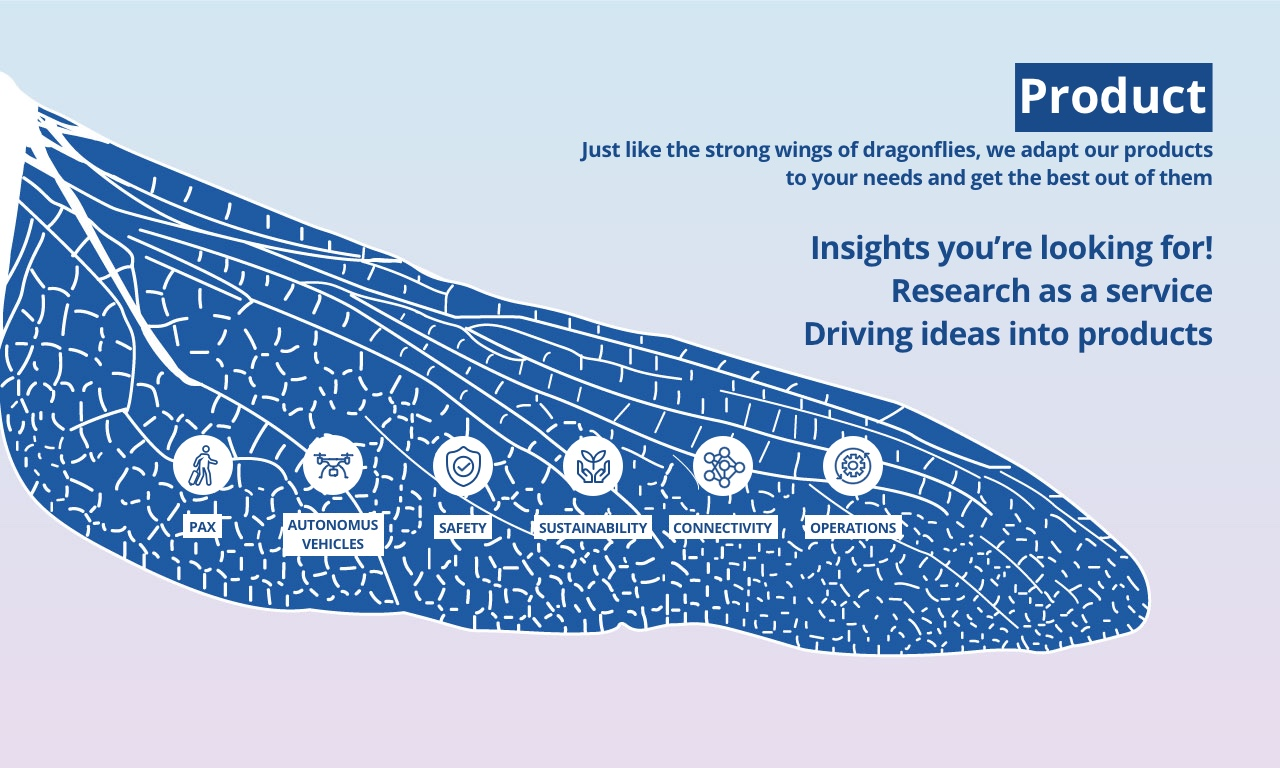
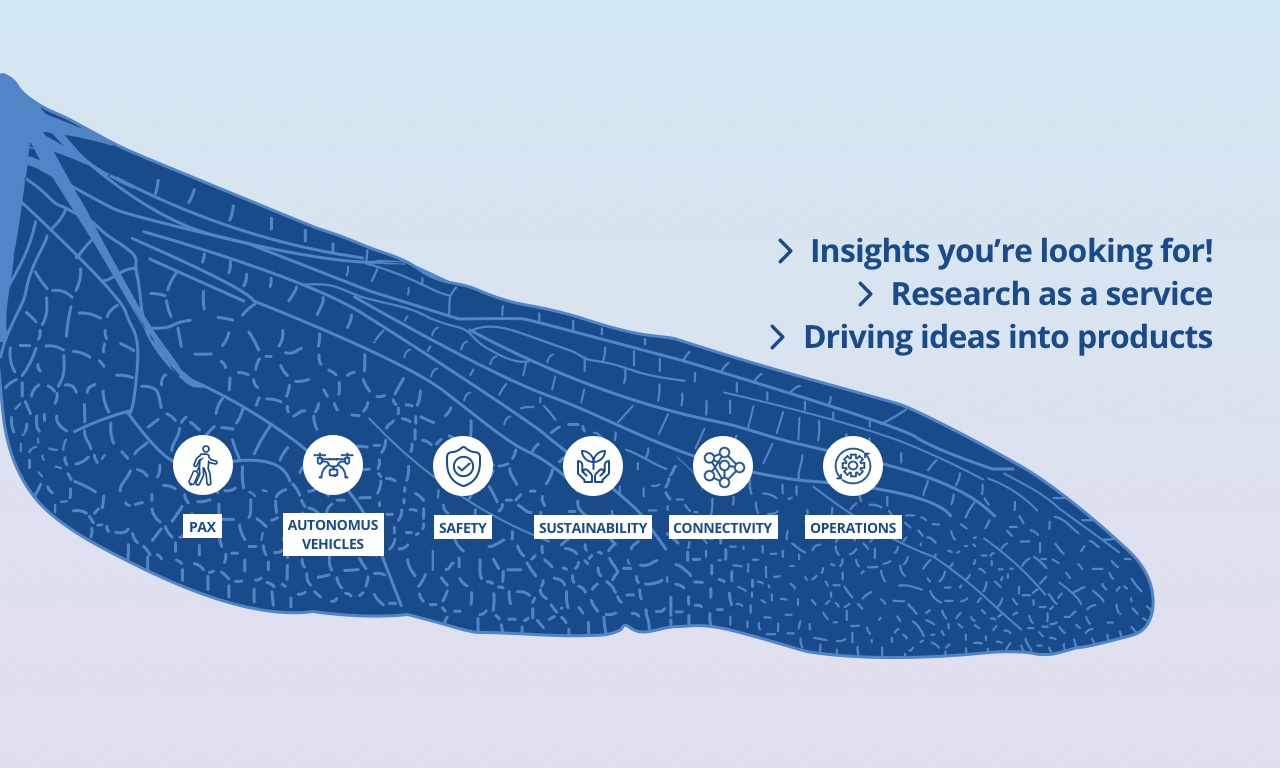
feat: update images clouds

Changed region(s): [[0.0, 0.0938, 0.9688, 0.875], [0.4375, 0.0625, 0.9688, 0.25]]

diff --git a/everis-flying-together/src/js/function.js b/everis-flying-together/src/js/function.js
@@ -100,7 +100,7 @@ $(function () {
                   <img src=${imageOriginal} alt="Original Image"> 
                   <div class="resize-image"> 
                   </div>              
-                  <span class="handle"></span>
+                  <span class="handle blob white"></span>
                 </figure> 
               </div>
             <div class="slide__darkbg slide--${numSlide}__darkbg slide--${numSlide}__animated-gradient"></div>
@@ -134,25 +134,21 @@ $(function () {
                   <iframe poster="https://www.emailonacid.com/images/blog_images/Emailology/2013/html5_video/bunny_cover.jpg" src="https://player.vimeo.com/video/518638996" class="with-shadow" width="640" height="360" frameborder="0" allow="autoplay; fullscreen; picture-in-picture" allowfullscreen></iframe>
                 </div>  
                 <div class="bullets-container">
-                  <div class="bullet bullet-1"> 
-                    <div class="bullet-text">
-                      <p>Walk together looking into the future</p>
-                    </div> 
+                  <div class="bullet">
+                    <p class="bullet-title">INIT</p>
+                    <p class="bullet-subtitle">Taking off towards products, teams, and chapters.</p>                     
                   </div>
-                  <div class="bullet bullet-1"> 
-                    <div class="bullet-text">
-                      <p>Walk together looking into the future</p>
-                    </div> 
+                  <div class="bullet"> 
+                    <p class="bullet-title">INIT</p>
+                    <p class="bullet-subtitle">Taking off towards products, teams, and chapters.</p>                    
                   </div>
-                  <div class="bullet bullet-1"> 
-                    <div class="bullet-text">
-                      <p>Walk together looking into the future</p>
-                    </div> 
+                  <div class="bullet"> 
+                    <p class="bullet-title">INIT</p>
+                    <p class="bullet-subtitle">Taking off towards products, teams, and chapters.</p>
                   </div>
-                  <div class="bullet bullet-1"> 
-                    <div class="bullet-text">
-                      <p>Walk together looking into the future</p>
-                    </div> 
+                  <div class="bullet"> 
+                    <p class="bullet-title">INIT</p>
+                    <p class="bullet-subtitle">Taking off towards products, teams, and chapters.</p>
                   </div>
                 </div>
               </div> 
@@ -170,15 +166,18 @@ $(function () {
             <div class="slide__darkbg slide--${numSlide}__darkbg"></div>
               <div class="draggable-container">
                 <div class="draggable-clouds">
-                  <ul>
-                    <li>
-                      <div class="ui-widget-content draggable-cloud cloud-1" />
-                    </li>
-                    <li>
-                      <div class="ui-widget-content draggable-cloud cloud-2" />
-                    </li>
-                  </ul>                      
-                </div>                    
+                  <div class="ui-widget-content draggable-cloud cloud-1"></div>
+                  <div class="ui-widget-content draggable-cloud cloud-2"></div>
+                  <div class="ui-widget-content draggable-cloud cloud-3"></div>
+                </div> 
+                <div class="draggable-hidden-container contain-1">
+                  <p class="draggable-hidden-container-title"><span class="icn-arrow"></span>Walk together looking into the future</p>
+                  <p class="draggable-hidden-container-subtitle">Continuous discovery methodology fully aligned with your business needs and market trends</p>
+                </div>
+                <div class="draggable-hidden-container contain-2">
+                  <p class="draggable-hidden-container-title"><span class="icn-arrow"></span>From tech radar to the chapter</p>
+                  <p class="draggable-hidden-container-subtitle">Accelerate the adoption of new technologies by your delivery teams</p>
+                </div>
               </div>        
             </div>
           </div>`);
@@ -382,7 +381,7 @@ $(function () {
   // draggable/fadeOut clouds
   $(".draggable-cloud").draggable({
     start: function() {
-      $(this).fadeTo("slow", 0.1);
+      // $(this).fadeTo("slow", 0.1);
     }
   });
 

diff --git a/everis-flying-together/src/css/slide-4.css b/everis-flying-together/src/css/slide-4.css
@@ -1,0 +1,114 @@
+.slide--4 .draggable-hidden-container {
+  position: absolute;
+  display: flex;
+  flex-direction: column;
+  width: 300px;
+  height: 170px;
+  color: #194a8a;
+  padding: 24px;
+  background: white;
+}
+
+.slide--4 .draggable-hidden-container .draggable-hidden-container-title {
+  display: flex;
+  align-items: center;
+  font-size: 18px;
+  font-weight: bold;
+  letter-spacing: -0.43px;
+  color: #194a8a;
+}
+
+.slide--4
+  .draggable-hidden-container
+  .draggable-hidden-container-title
+  .icn-arrow {
+  background: url("../images/blue-arrow.svg") no-repeat;
+  width: 20px;
+  height: 26px;
+  margin-right: 20px;
+}
+
+.slide--4 .draggable-hidden-container .draggable-hidden-container-subtitle {
+  margin-top: 20px;
+  font-size: 14px;
+  font-weight: bold;
+  line-height: normal;
+  letter-spacing: -0.34px;
+  color: #194a8a;
+}
+
+.slide--4 .draggable-hidden-container.contain-1 {
+  left: 200px;
+  top: 600px;
+}
+.slide--4 .draggable-hidden-container.contain-2 {
+  right: 300px;
+  top: 300px;
+}
+
+/* clouds */
+.slide--4 .draggable-container {
+  position: absolute;
+  left: 0;
+  top: 0;
+  z-index: 100;
+  width: 100%;
+  height: 100vh;
+}
+.slide--4 .draggable-container .draggable-clouds .cloud-1 {
+  background: url("../images/draggable-clouds/nube1.png") center center
+    no-repeat;
+  position: absolute;
+  left: 200px;
+  top: 600px;
+  z-index: 100;
+  width: 600px;
+  height: 300px;
+  background-size: contain;
+}
+.slide--4 .draggable-container .draggable-clouds .cloud-2 {
+  background: url("../images/draggable-clouds/cloud-1.png") center center
+    no-repeat;
+  position: absolute;
+  right: 300px;
+  top: 300px;
+  width: 400px;
+  height: 300px;
+  z-index: 100;
+  background-size: 100%;
+}
+.slide--4 .draggable-container .draggable-clouds .cloud-3 {
+  background: url("../images/draggable-clouds/cloud-1.png") center center
+    no-repeat;
+  position: absolute;
+  left: 890px;
+  top: 180px;
+  width: 400px;
+  height: 300px;
+  z-index: 100;
+  background-size: 100%;
+}
+.slide--4 .draggable-container .draggable-cloud {
+  width: 30%;
+  height: 100px;
+  transform: scale(1);
+  /* animation: pulse 30s infinite; */
+  /* filter: brightness(100%); */
+}
+.slide--4 .draggable-container .draggable-cloud:hover {
+  /* filter: brightness(110%); */
+  cursor: grab;
+}
+
+/* animations */
+@keyframes pulse {
+  0% {
+    transform: scale(0.95);
+  }
+  70% {
+    transform: scale(1.2);
+  }
+  100% {
+    transform: scale(0.95);
+  }
+}

diff --git a/everis-flying-together/src/css/main.css b/everis-flying-together/src/css/main.css
@@ -141,7 +141,7 @@ body {
   -webkit-box-align: flex-end;
   -ms-flex-align: flex-end;
   align-items: flex-end;
-  z-index: 12;
+  z-index: 1000;
   text-align: left;
 }
 .slide__text-wrapper h1 {
@@ -468,58 +468,4 @@ body {
   font-size: 64px;
   color: #5976aa;
 }
-/* */
-
-/* SLIDE 2 */
-/* */
-
-/* SLIDE 3 */
-.slide--3 .slide__wrapper-video {
-  position: absolute;
-  top: 50%;
-  left: 50%;
-  transform: translate(-50%, -50%);
-  z-index: 12;
-  display: flex;
-  justify-content: space-between;
-}
-
-.slide--3 .slide__wrapper-video .video-container iframe.with-shadow {
-  box-shadow: 0 30px 30px rgb(0 0 0 / 15%);
-}
-
-.slide--3 .slide__wrapper-video .bullets-container {
-  margin-left: 100px;
-}
-
-.slide--3 .slide__wrapper-video .bullets-container .bullet {
-  display: flex;
-  align-items: center;
-}
-.slide--3 .slide__wrapper-video .bullets-container .bullet .lnr {
-  display: flex;
-  justify-content: center;
-  align-items: center;
-  min-width: 100px;
-  height: 100px;
-  border-radius: 50%;
-  background: white;
-  font-size: 42px;
-  border: 4px solid #5976aa;
-}
-.slide--3 .slide__wrapper-video .bullets-container .bullet .bullet-text {
-  display: flex;
-  justify-content: center;
-  align-items: center;
-  padding: 20px;
-  background-color: #5976aa;
-  border-radius: 5px;
-  color: white;
-  width: 300px;
-  height: 60px;
-  margin-left: -50px;
-  padding-left: 60px;
-  z-index: -1;
-}
-
 /* */

diff --git a/everis-flying-together/src/css/draggable-comparator.css b/everis-flying-together/src/css/draggable-comparator.css
@@ -67,7 +67,7 @@
   width: 0;
   height: 100%;
   overflow: hidden;
-  background: url("../images/draggable-comparator/wing-web.png") no-repeat left
+  background: url("../images/draggable-comparator/wing-web2.jpg") no-repeat left
     top;
   background-size: auto 100%;
   -webkit-transform: translateZ(0);
@@ -131,7 +131,7 @@
   margin-left: -22px;
   margin-top: -22px;
   border-radius: 50%;
-  background: #dc717d
+  background: #cef3ff
     url("https://webdevtrick.com/wp-content/uploads/arrows.svg") no-repeat
     center center;
   cursor: move;
@@ -143,6 +143,7 @@
   -ms-transform: translate3d(0, 0, 0) scale(0);
   -o-transform: translate3d(0, 0, 0) scale(0);
   transform: translate3d(0, 0, 0) scale(0);
+  animation: pulse 2s infinite;
 }
 .handle:hover,
 .handle.draggable {
@@ -158,4 +159,26 @@
   -webkit-transition: -webkit-transform 0.3s 0.7s, opacity 0s 0.7s;
   -moz-transition: -moz-transform 0.3s 0.7s, opacity 0s 0.7s;
   transition: transform 0.3s 0.7s, opacity 0s 0.7s;
+}
+
+.blob {
+  box-shadow: 0 0 0 0 rgba(0, 0, 0, 1);
+  transform: scale(1);
+}
+
+@keyframes pulse {
+  0% {
+    transform: scale(0.95);
+    box-shadow: 0 0 0 0 rgba(255, 255, 255, 0.7);
+  }
+
+  70% {
+    transform: scale(1.2);
+    box-shadow: 0 0 0 10px rgba(255, 255, 255, 0);
+  }
+
+  100% {
+    transform: scale(0.95);
+    box-shadow: 0 0 0 0 rgba(255, 255, 255, 0);
+  }
 }

diff --git a/everis-flying-together/src/css/slide-3.css b/everis-flying-together/src/css/slide-3.css
@@ -1,13 +1,40 @@
-/* title section */
-.slide--3 .slide__text-wrapper h1 {
-  background-color: rgba(25, 74, 138, 0.75);
-  color: white;
-}
-.slide--3 .slide__text-wrapper h3 {
-  color: #194a8a;
+.slide--3 .slide__wrapper-video {
+  position: absolute;
+  top: 50%;
+  left: 50%;
+  transform: translate(-50%, -50%);
+  z-index: 12;
+  display: flex;
+  justify-content: space-between;
 }
 
-.slide--3 .card-area {
+.slide--3 .slide__wrapper-video .video-container iframe.with-shadow {
+  box-shadow: 0 30px 30px rgb(0 0 0 / 15%);
+}
+
+.slide--3 .slide__wrapper-video .bullets-container {
+  margin-left: 100px;
   display: flex;
-  margin: auto;
+  flex-direction: column;
+}
+
+.slide--3 .slide__wrapper-video .bullets-container .bullet {
+  display: flex;
+  flex-direction: column;
+  margin-bottom: 30px;
+  color: #194a8a;
+}
+.slide--3 .slide__wrapper-video .bullets-container .bullet:last-child {
+  margin-bottom: 0;
+}
+.slide--3 .slide__wrapper-video .bullets-container .bullet .bullet-title {
+  font-size: 14px;
+  font-weight: bold;
+  background: white;
+  padding: 4px;
+  margin-bottom: 4px;
+}
+.slide--3 .slide__wrapper-video .bullets-container .bullet .bullet-subtitle {
+  font-size: 14px;
+  font-weight: bold;
 }

diff --git a/everis-flying-together/src/App.js b/everis-flying-together/src/App.js
@@ -3,10 +3,11 @@ import logo from './images/navblue-white-logo.png';
 import 'jquery-ui-dist/jquery-ui';
 import './css/main.css';
 import './css/slide-1.css';
+import './css/slide-3.css';
+import './css/slide-4.css';
 import './css/slide-5.css';
 import './css/modal.css';
 import './css/animated-gradient.css';
-import './css/draggable-clouds.css';
 import './css/draggable-comparator.css';
 import './css/button.css';
 import './js/function.js';
